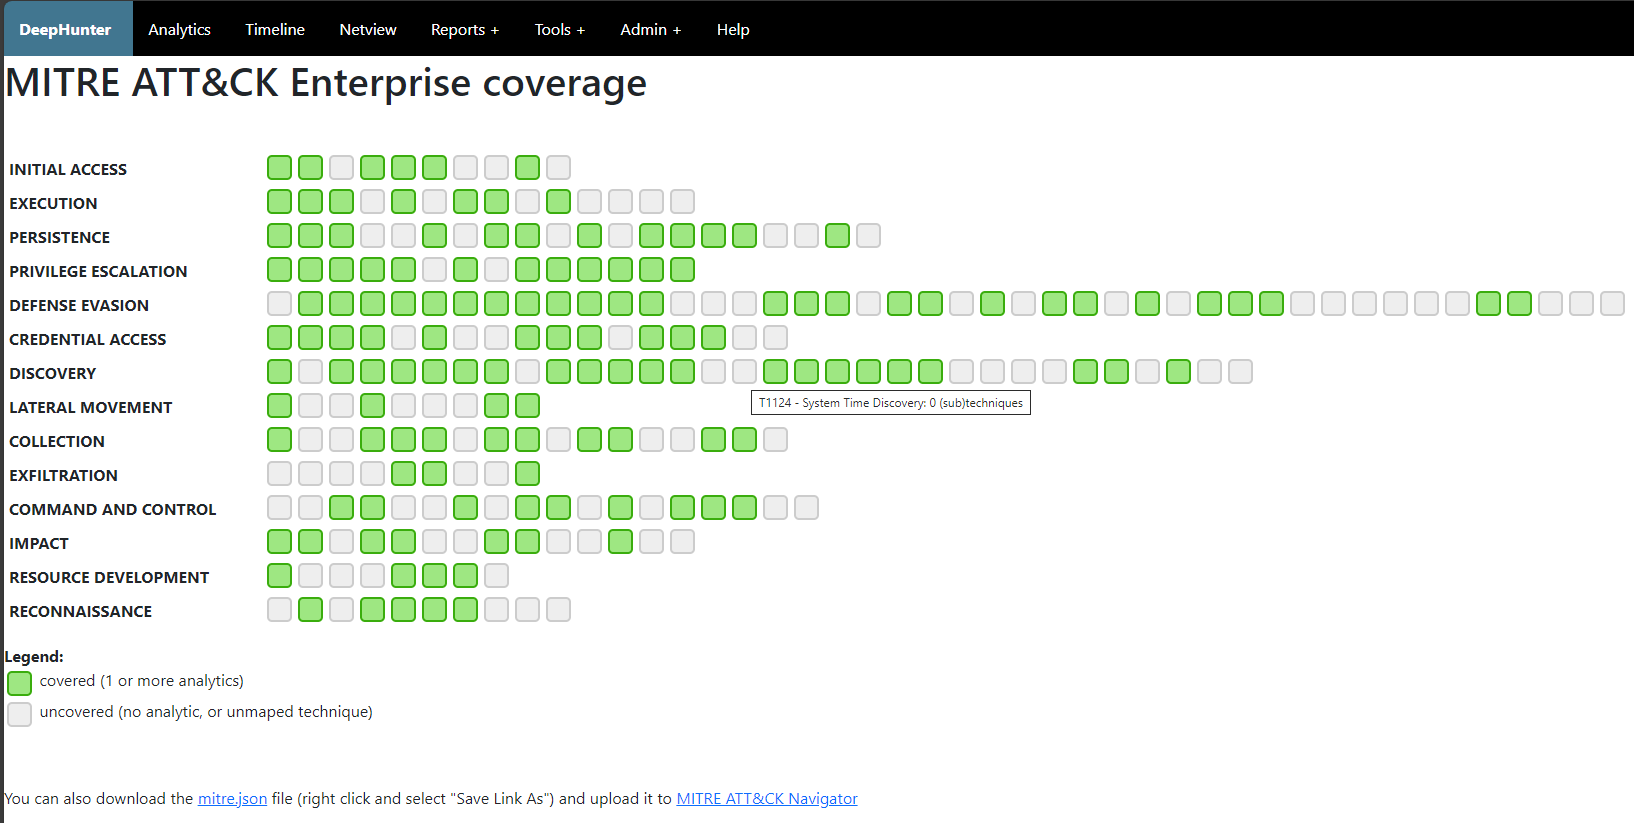
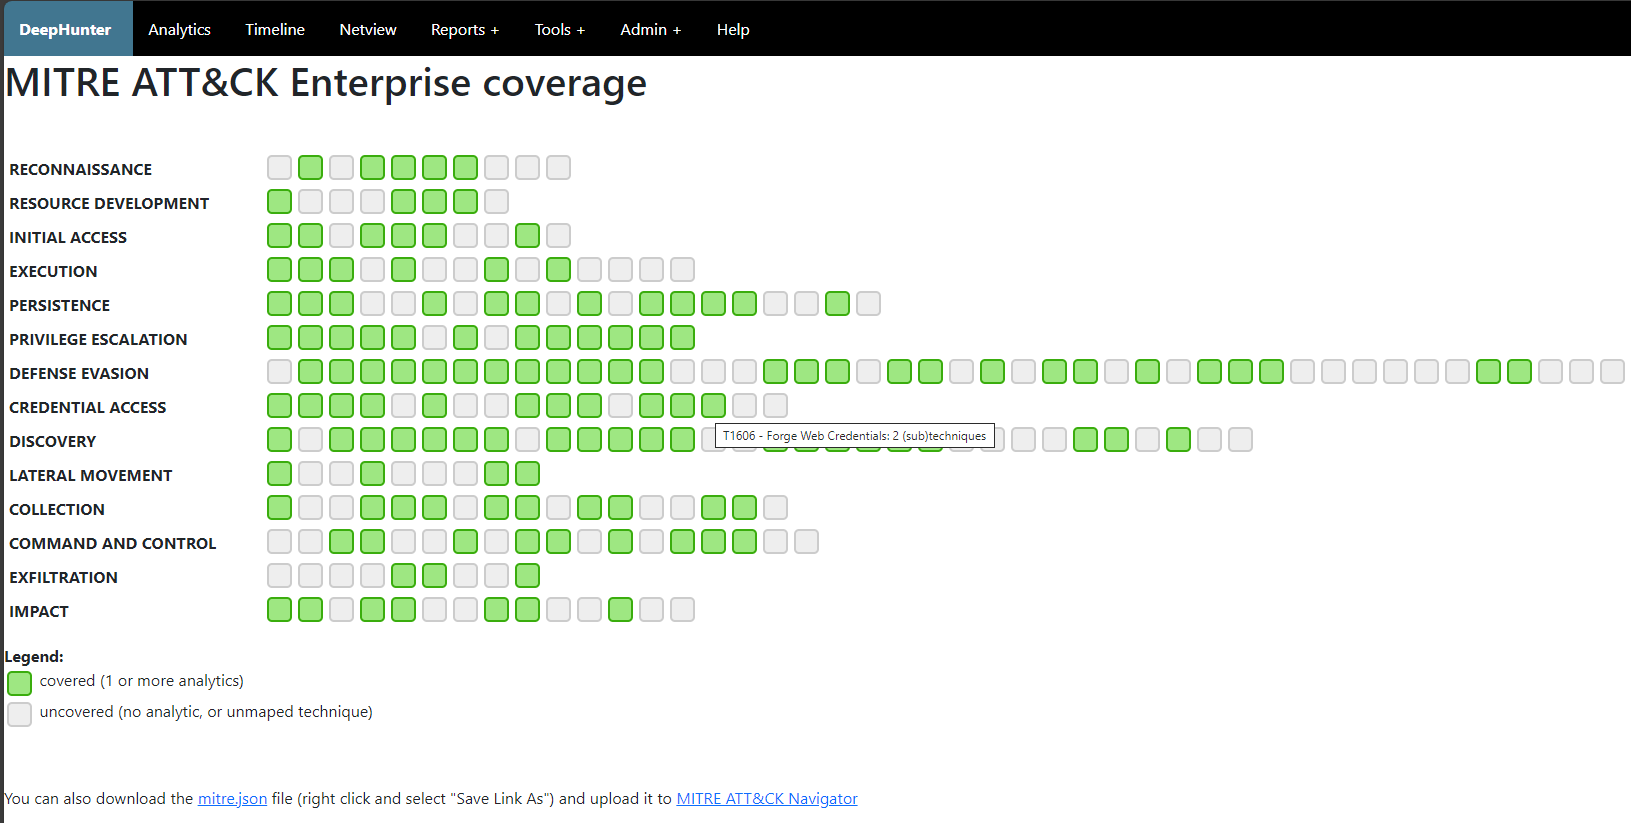
fixed issue #1 (incorrect MITRE tactics in reports)

diff --git a/qm/models.py b/qm/models.py
@@ -15,12 +15,13 @@ class MitreTactic(models.Model):
     mitre_id = models.CharField(max_length=15, unique=True)
     name = models.CharField(max_length=50)
     description = models.TextField(blank=True)
+    position = models.IntegerField(blank=False)
     
     def __str__(self):
         return '{} - {}'.format(self.mitre_id, self.name)
     
     class Meta:
-        ordering = ['mitre_id']
+        ordering = ['position']
 
 class MitreTechnique(models.Model):
     mitre_id = models.CharField(max_length=15, unique=True)
